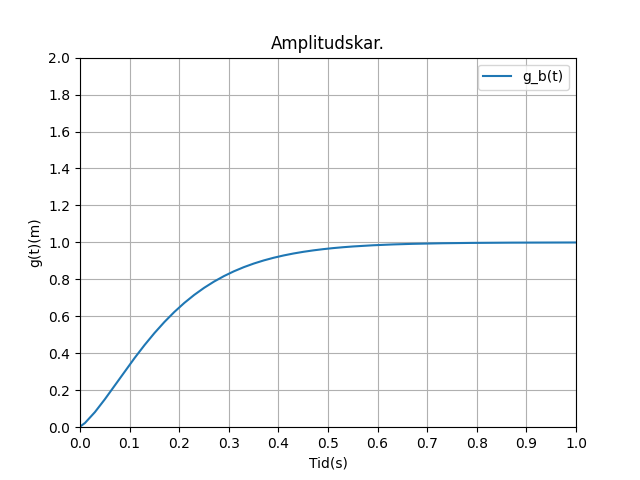
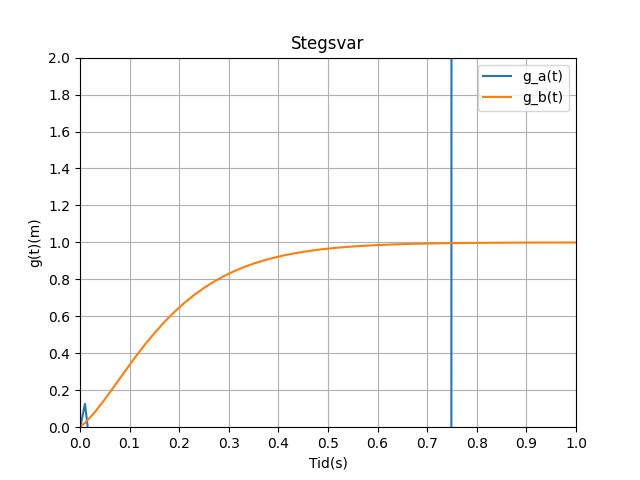
skibidi toilett

diff --git a/rapport/plots/stegsvar.py b/rapport/plots/stegsvar.py
@@ -2,10 +2,10 @@ import matplotlib.pyplot as plt
 import numpy as np
 
 def g_a(t):
-    pass
+    return (8/25*(np.exp(-8*t)*(3*np.sin(6*t) - 4*np.cos(6*t)) + 4) + 7/54*np.exp(8)*(6*t*np.cos(6*t) - np.sin(6*t)))
 
 def g_b(t):
-    return (1 - np.exp(-10*t)- 8*t*np.exp(-10*t))
+    return (1 - np.exp(-10*t) - 8*t*np.exp(-10*t))
 
 def g_c(t):
     pass
@@ -13,7 +13,6 @@ def g_c(t):
 t_values = np.linspace(-10, 10, 1000)
 a_values = g_a(t_values)
 b_values = g_b(t_values)
-c_values = g_c(t_values)
 
 fig = plt.figure()
 ax = fig.add_subplot(1, 1, 1)
@@ -31,7 +30,6 @@ ax.yaxis.set_major_locator(plt.MultipleLocator(0.2))
 
 plt.plot(t_values, a_values , label="g_a(t)")
 plt.plot(t_values, b_values , label="g_b(t)")
-plt.plot(t_values, c_values , label="g_c(t)")
 
 plt.title('Stegsvar')
 plt.ylabel('g(t)(m)')
